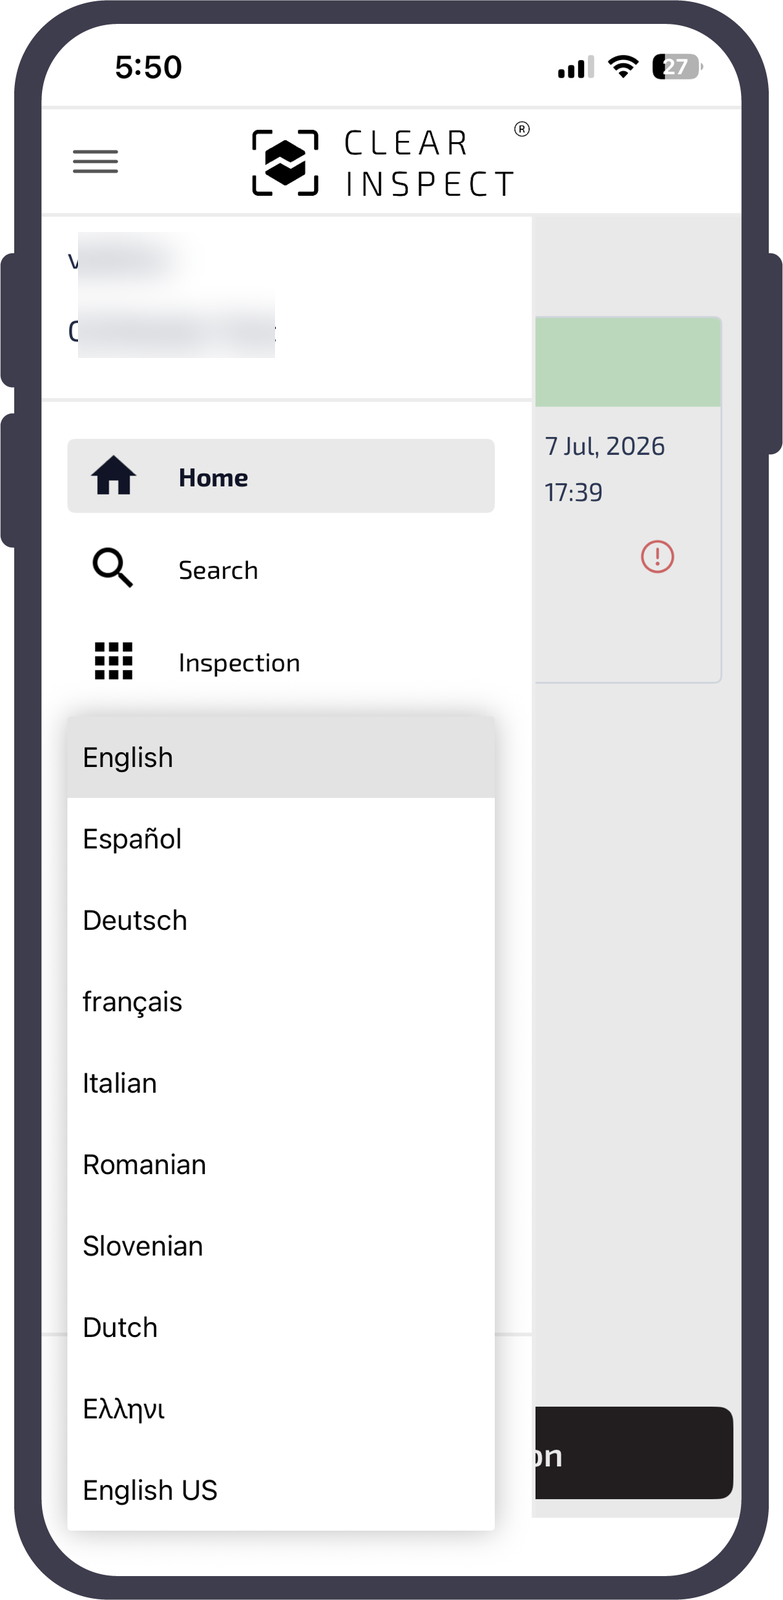
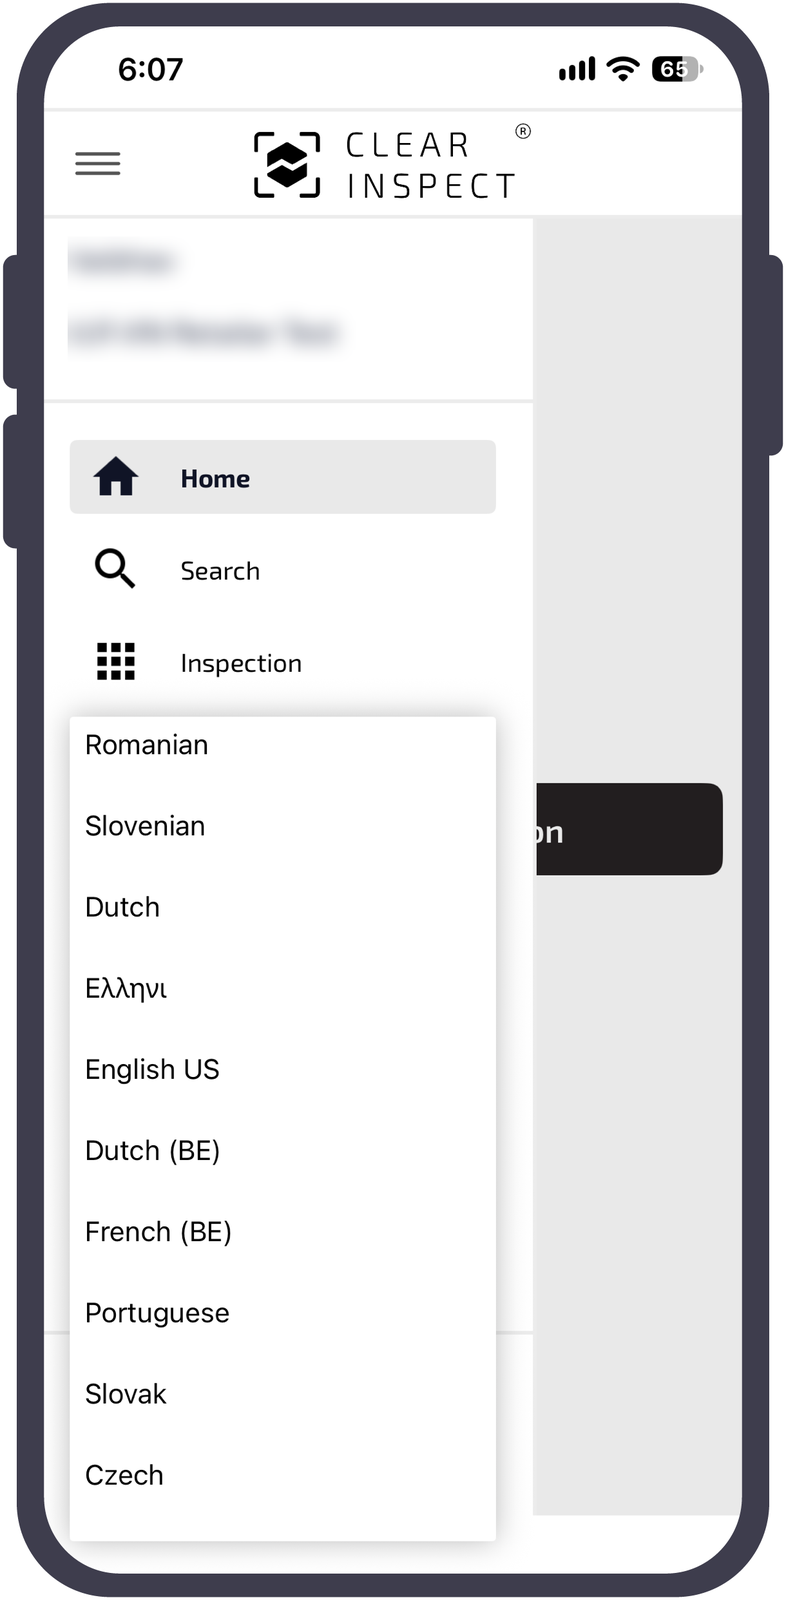
Remove home-screen metrics; update languages and RA05-2

diff --git a/screenshots.md b/screenshots.md
@@ -29,7 +29,7 @@ To attach one: capture the screen, save it into `.gitbook/assets/`, then in the 
 | RA03-3 | `03-signing-in` › Forgot your password? | Step 3 | ✅ Attached | — | `RA03-3.png` |
 | RA03-2 | `03-signing-in` › Accepting the Terms & Conditions | Step 2 | ✅ Attached | — | `demo-r02.png` |
 | RA04-1 | `04-the-home-screen` › — | Intro | ✅ Attached | — | `demo-r03.png` |
-| RA05-2 | `05-changing-the-language` › Change the language | Step 3 | ✅ Attached | — | `RA05-2.png` |
+| RA05-2 | `05-changing-the-language` › Change the language | Step 3 | ✅ Attached | — | `RA05-2.png` (recaptured with BE languages) |
 | RA06-1 | `06-start-an-inspection` › Before you start | Step 3 | ✅ Attached | — | `RA06-1-camera.png` + `RA06-1-location.png` |
 | RA06-2 | `06-start-an-inspection` › Scan the number plate | Step 1 | ✅ Attached | — | `demo-r04.png` |
 | RA06-5 | `06-start-an-inspection` › Scan the number plate | Step 2 | ✅ Attached | — | `demo-r05.jpg` |
@@ -107,12 +107,9 @@ To attach one: capture the screen, save it into `.gitbook/assets/`, then in the 
 | RA20-2 | `20-tips-for-good-captures` › While you capture | Intro | ✅ Attached | — | `demo-r10.jpg` |
 | RA20-3 | `20-tips-for-good-captures` › Before and during | Intro | ✅ Attached | — | `RA06-1-camera.png` (reuse RA06-1) |
 | RA21-1 | `21-troubleshooting-and-faq` › Capturing images | Intro | ⬜ Capture | Follow | Retailer app → capture → Manual toggle state (may reuse RA07-3) |
-| WD01-1 | `01-about-the-web-dashboard` › What you can do | Intro | ✅ Attached | — | `WD03-1-plain.png` (reuse WD03-1, no-box copy) |
 | WD02-1 | `02-signing-in` › Step 1: Email and password | Step 3 | ✅ Attached | — | `WD02-1.png` |
 | WD02-2 | `02-signing-in` › Step 2: Enter the OTP | Step 3 | ✅ Attached | — | `WD02-2.png` |
 | WD02-3 | `02-signing-in` › Signing out | Intro | ✅ Attached | — | `WD02-3.png` |
-| WD03-1 | `03-the-home-screen` › — | Intro | ✅ Attached | — | `WD03-1.png` |
-| WD03-2 | `03-the-home-screen` › Inspection Summary | Intro | ⬜ Capture | Follow | Web dashboard → home → crop of the Inspection Summary card (Total Inspections + date filter) |
 | WD05-1 | `05-creating-an-invite` › Send an invite | Step 8 | ✅ Attached | — | `WD05-1.png` |
 | WD05-2 | `05-creating-an-invite` › Send an invite | Step 8 | ✅ Attached | — | `WD05-2.png` |
 | WD05-3 | `05-creating-an-invite` › What the customer receives | Intro | ⬜ Capture | Follow | The invite email a customer receives (email-client screenshot) |
@@ -148,15 +145,14 @@ Ten captures, ordered by criticality — several also backfill a ♻ reuse sl
 | 2 | WD08-1 | Full inspection report | RA16-3 |
 | 3 | WD05-1 | Create-invite form | RA17-1 |
 | 4 | WD07-1 | Search / find an inspection | RA16-2 |
-| 5 | WD03-1 | Dashboard home screen | WD01-1 |
-| 6 | RA16-1 | In-app report after sign-off | RA15-2 |
-| 7 | RA06-1 | App camera/location permission prompts | RA20-3 |
-| 8 | WD10-1 | Download PDF | RA16-4 |
-| 9 | WD06-1 | Invite tracking table | RA17-2 |
+| 5 | RA16-1 | In-app report after sign-off | RA15-2 |
+| 6 | RA06-1 | App camera/location permission prompts | RA20-3 |
+| 7 | WD10-1 | Download PDF | RA16-4 |
+| 8 | WD06-1 | Invite tracking table | RA17-2 |
 
 ## Reuse map
 
-RA14-1 = WD08-9 · RA15-2 = RA16-1 · RA16-2 = WD07-1 · RA16-3 = WD08-1 · RA16-4 = WD10-1 · RA17-1 = WD05-1 · RA17-2 = WD06-1 · RA20-3 = RA06-1 · WD01-1 = WD03-1. (RA15-1 and RA20-2 already carry their reused image.)
+RA14-1 = WD08-9 · RA15-2 = RA16-1 · RA16-2 = WD07-1 · RA16-3 = WD08-1 · RA16-4 = WD10-1 · RA17-1 = WD05-1 · RA17-2 = WD06-1 · RA20-3 = RA06-1. (RA15-1 and RA20-2 already carry their reused image.)
 
 ## Notes
 

diff --git a/web-dashboard/getting-started/03-the-home-screen.md b/web-dashboard/getting-started/03-the-home-screen.md
@@ -1,30 +1,12 @@
 # The home screen
 
-After signing in, the home screen shows an **Inspection Summary** card that gives you a quick read on inspection activity at your retailer. Use the date filter at the top (for example, **Today**) to change the period.
-
-![](../../.gitbook/assets/WD03-1.png)
-
-## Inspection Summary
-
-Shows the total number of inspections for the selected period, broken down by status.
-
-| Status | What it means |
-|---|---|
-| **Complete** | The inspection has been signed off and the report is ready. |
-| **In Progress** | The inspection has been started but not yet signed off. |
-| **Incomplete** | The inspection was started but not completed within the expected window. |
-
-A **Total Inspections** count is shown at the top of the card.
-
-{% hint style="info" %}
-The counts on the home screen reflect your access level.
-{% endhint %}
+The home screen opens after you sign in. From here, use the sidebar on the left to move between sections.
 
 ## Navigation
 
-Use the sidebar on the left to move between sections. The main ones are:
+The main sections are:
 
-* **Home** - the Inspection Summary card.
+* **Home** - returns you to the home screen.
 * **Search** - find any inspection by registration, VIN or customer name.
 * **Invite** - send a new customer inspection invite (shown when enabled for your retailer).
 

diff --git a/shared/supported-languages.md b/shared/supported-languages.md
@@ -3,18 +3,20 @@
 The languages available in the ClearInspect Retailer app and Client app depend on your setup. Typical examples include:
 
 * English
+* English (US)
 * German
 * Spanish
-* Dutch (Netherlands)
-* Dutch (Belgium)
-* French (Morocco)
+* French
 * French (Belgium)
+* Dutch
+* Dutch (Belgium)
 * Italian
-* Romanian
 * Portuguese
+* Romanian
 * Slovak
 * Slovenian
 * Czech
+* Greek
 
 You can change the language from the hamburger menu on the home screen. The default language is selected based on your region. The language set for a customer invite defaults to the language chosen by the retailer when the invite is sent.
 

diff --git a/shared/glossary.md b/shared/glossary.md
@@ -58,8 +58,6 @@ This glossary explains the terms used across the ClearInspect Retailer app and w
 
 **Sign-off** Confirming and completing an inspection at the end of the process.
 
-**Inspection Summary** The metric card on the web dashboard home screen showing the total and counts of retailer-conducted inspections by status: Complete, In Progress and Incomplete.
-
 **Draw Mode / Zoom Mode** A toggle in damage review. Zoom Mode zooms in on the image; Draw Mode lets you draw around a damage to mark it.
 
 **Damage Area** The Small or Large size choice made when adding a damage manually.

diff --git a/retailer-app/getting-started/05-changing-the-language.md b/retailer-app/getting-started/05-changing-the-language.md
@@ -4,7 +4,7 @@ Change the language ClearInspect uses from the menu after you sign in. The defau
 
 ## Supported languages
 
-The languages available depend on your setup. Typical examples include English, German, Spanish, Dutch, French, Italian, Romanian, Portuguese, Slovak, Slovenian and Czech.
+The languages available depend on your setup. Typical examples include English, English (US), German, Spanish, French, French (Belgium), Dutch, Dutch (Belgium), Italian, Portuguese, Romanian, Slovak, Slovenian, Czech and Greek.
 
 ## Change the language
 

diff --git a/web-dashboard/getting-started/01-about-the-web-dashboard.md b/web-dashboard/getting-started/01-about-the-web-dashboard.md
@@ -9,8 +9,6 @@ The ClearInspect web dashboard is the browser-based tool for JLR retailer staff.
 * View completed inspection reports in full.
 * Download and share reports as a PDF or by email.
 
-![](../../.gitbook/assets/WD03-1-plain.png)
-
 {% hint style="info" %}
 The web dashboard is for retailer staff only. Customers do not sign in here. They receive an invite by email and complete their appraisal using the Client app.
 {% endhint %}
